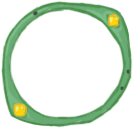
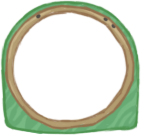
Champions spawn at start of game

diff --git a/turns.js b/turns.js
@@ -71,6 +71,22 @@ Turns.updatePlayable = function (players, currentTurn) {
 
 Turns.minionsCanAttack = function (player, can) {
 	player.board.forEach(function (c) {
-		c.canAttack = (typeof can !== 'undefined' ? can : true);
+		if (typeof can !== 'undefined') {
+			c.canAttack = can;
+		} else {
+			c.canAttack = c.attack != 0; // 0 attack creatures can not attack
+		}
 	});
+}
+
+Turns.spawnChampions = function (players) {
+	for (var id in players) {
+		if (players.hasOwnProperty(id)) {
+			var champ = Champions[0];
+			champ.champion = true;
+			players[id].board.push(champ);
+			GameFactory.updateBoardIndexes(players[id].board);
+		}
+	}
+
 }

diff --git a/client/style/_boardSides.scss b/client/style/_boardSides.scss
@@ -43,11 +43,25 @@
   transition: transform .3s ease;
 }
 
+.board-side .card.champion {
+  border-radius: 50% 50% 0 0;
+}
+
 .board-side .card-art {
   border-radius: 50%;
 }
 
 .board-side .card-border {
+  position: absolute;
+  top: -4px;
+  left: -7px;
+  width: 133px;
+  height: 128px;
+  background-image: url('/images/card_border.png');
+  background-size: 133px 128px;
+}
+
+.board-side .champion .card-border {
   position: absolute;
   top: -4px;
   left: -7px;

diff --git a/games.js b/games.js
@@ -58,7 +58,9 @@ Meteor.methods({
     game.currentTurn.unshift(game.currentTurn.pop());
 
 		GameFactory.dealPlayer(game.players[otherId]);
-		game.players[otherId].maxflour++;
+		if (game.players[otherId].maxflour < Config.maxBananas) {
+			game.players[otherId].maxflour++;
+		}
 		game.players[otherId].flour = game.players[otherId].maxflour;
 
 		Turns.updatePlayable(game.players, game.currentTurn);

diff --git a/client/play.html b/client/play.html
@@ -102,7 +102,7 @@
 </template>
 
 <template name="boardCard">
-	<li class="card {{canAttackClass}}">
+	<li class="card {{championClass}} {{canAttackClass}}">
     <img class="card-art" src="{{ art }}">
     <div class="card-border"></div>
 		<span class="health">{{ health }}</span>

diff --git a/client/play.js b/client/play.js
@@ -41,6 +41,9 @@ Template.handCard.helpers({
 Template.boardCard.helpers({
   canAttackClass: function() {
     return this.canAttack ? "playable" : "";
+  },
+  championClass: function() {
+    return this.champion ? "champion" : "";
   }
 });
 

diff --git a/lib/champions.js b/lib/champions.js
@@ -3,6 +3,7 @@ Champions = [
 		name: 'Chocolate King',
 		health: 100,
 		attack: 0,
+		art: 'http://i.imgur.com/IcTegA6b.jpg',
 		description: 'At the start of your turn, spawns a 1/1 Chocolate Bar'
 	}
 ];

diff --git a/config.js b/config.js
@@ -1,3 +1,5 @@
 Config = {};
 
 Config.maxMinionsOnBoard = 6;
+
+Config.maxBananas = 9;
